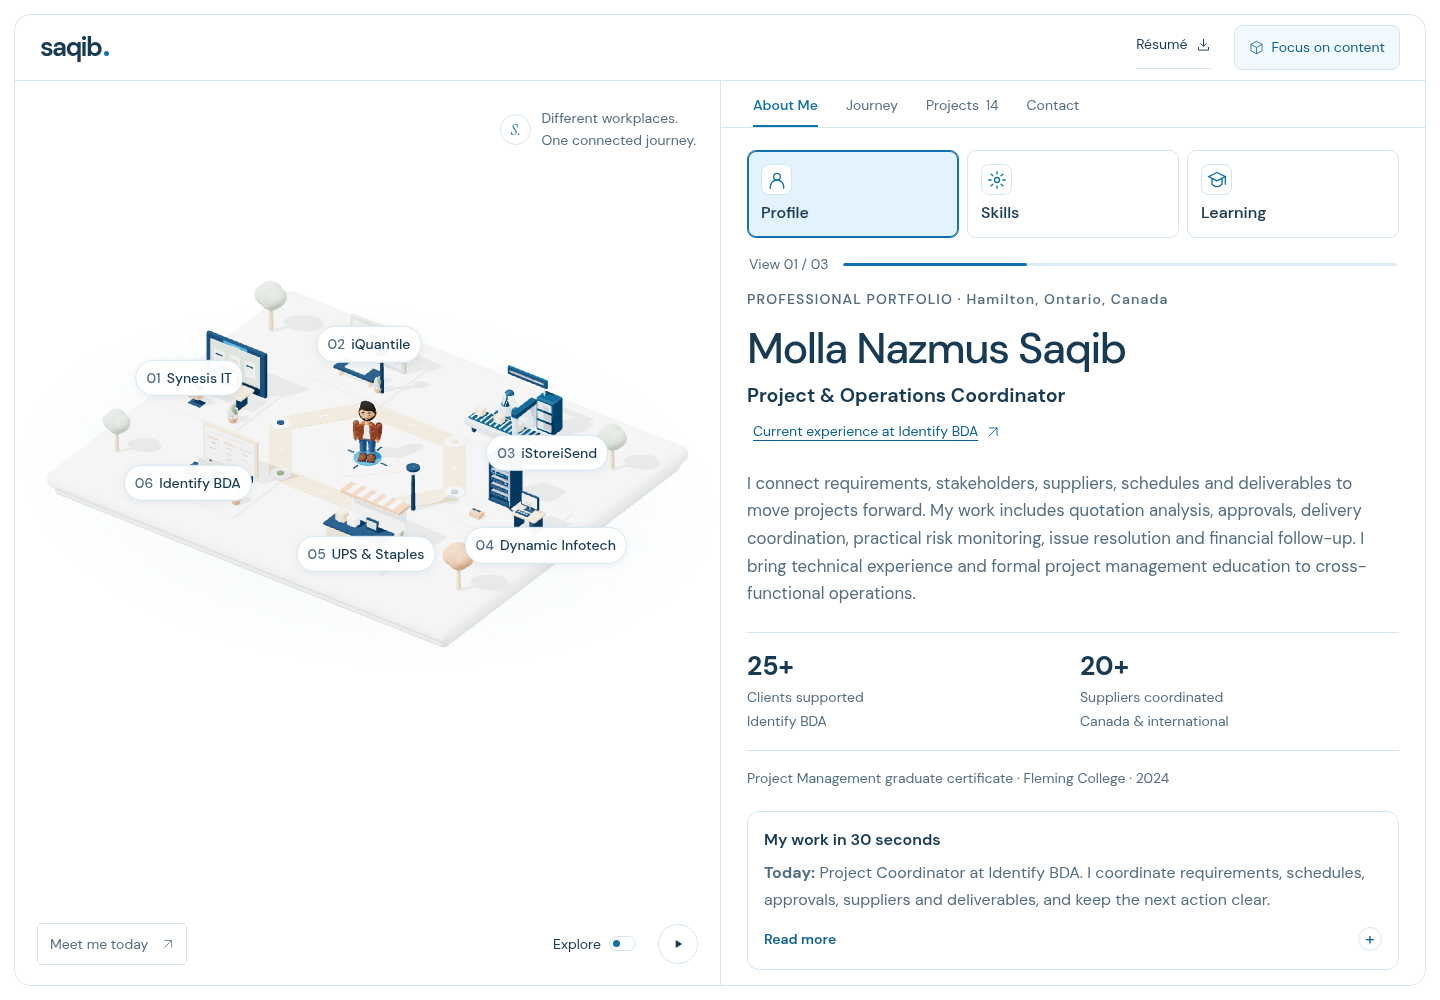
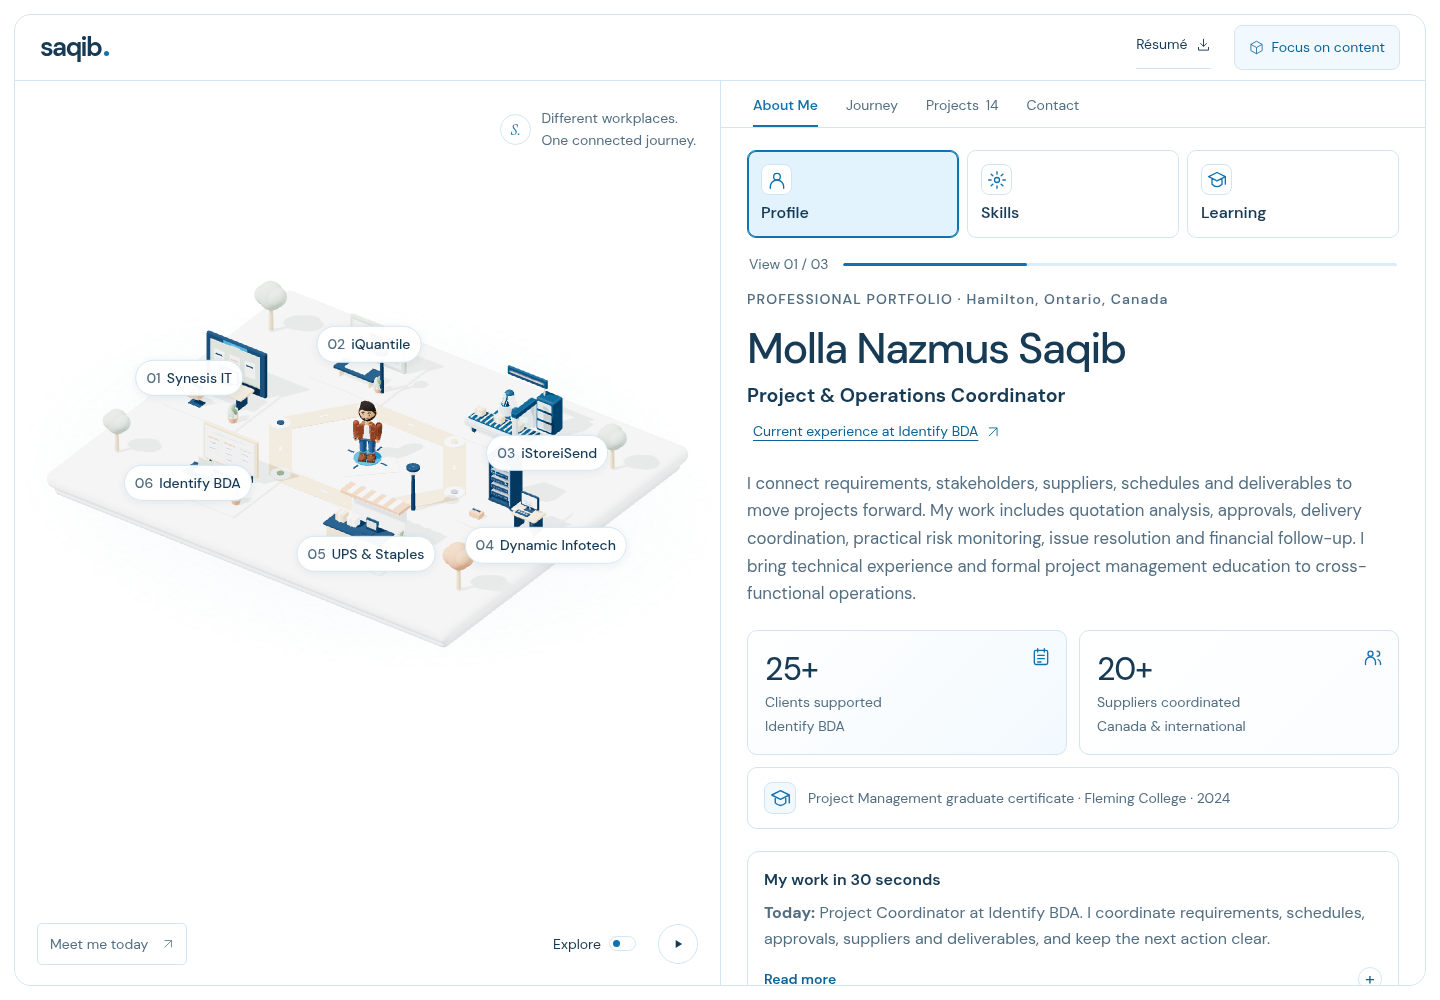
Restore rounded experience and credential cards

Changed region(s): [[0.5, 0.651, 0.9375, 0.992]]

diff --git a/src/recruiter-view.css b/src/recruiter-view.css
@@ -2,10 +2,13 @@
 .professional-position { color:var(--ink,#173A55); font-size:1.22rem; line-height:1.35; font-weight:650; margin:0; }
 .professional-summary { font-size:1.05rem; line-height:1.65; margin:16px 0 20px; color:#526E82; }
 .professional-inline-actions button { border:0; background:transparent; color:#0D6296; text-align:left; font-size:.9rem; line-height:1.45; padding:10px 2px; cursor:pointer; text-decoration:underline; text-underline-offset:4px; }
-.professional-evidence { display:grid; grid-template-columns:repeat(2,minmax(0,1fr)); list-style:none; margin:24px 0; padding:18px 0; border-block:1px solid #D2E6F2; gap:14px; }
-.professional-evidence li { display:flex; flex-direction:column; gap:5px; }
-.professional-evidence strong { font-size:1.65rem; color:#173A55; line-height:1.2; }
-.professional-evidence span { color:#526E82; font-size:.875rem; line-height:1.4; }
+.professional-evidence { display:grid; grid-template-columns:repeat(2,minmax(0,1fr)); list-style:none; margin:22px 0 12px; padding:0; gap:12px; }
+.professional-evidence li { position:relative; min-width:0; display:flex; flex-direction:column; gap:4px; padding:19px 17px 17px; border:1px solid #D2E6F2; border-radius:10px; background:linear-gradient(135deg,#FFFFFF,#F2F9FE); }
+.professional-evidence li:nth-child(2) { background:linear-gradient(135deg,#FFFFFF,#FAFDFF); }
+.professional-evidence strong { padding-right:24px; font-size:2rem; font-weight:450; letter-spacing:-1px; color:#173A55; line-height:1.2; }
+.professional-evidence span { color:#526E82; font-size:.875rem; line-height:1.5; }
+.professional-evidence .professional-evidence-icon { position:absolute; top:16px; right:15px; color:#1072AE; }
+.professional-evidence-icon>svg { display:block; width:20px; height:20px; }
 .professional-quick-view,.about-personal { border:1px solid #D2E6F2; border-radius:12px; margin-top:18px; background:#fff; }
 .professional-quick-view>summary,.about-personal>summary { cursor:pointer; font-size:1rem; padding:16px; color:#173A55; list-style:none; }
 .professional-quick-view>summary::-webkit-details-marker,.about-personal>summary::-webkit-details-marker { display:none; }
@@ -46,8 +49,10 @@
   .professional-overview h1 { font-size:2rem; letter-spacing:-1px; }
   .professional-position { font-size:1.13rem; }
   .professional-summary { font-size:1rem; margin:12px 0 16px; }
-  .professional-evidence { gap:10px; margin:18px 0; padding:14px 0; }
-  .professional-evidence strong { font-size:1.45rem; }
+  .professional-evidence { gap:10px; margin-top:18px; }
+  .professional-evidence li { padding:16px 13px 14px; }
+  .professional-evidence strong { font-size:1.875rem; }
+  .professional-evidence .professional-evidence-icon { top:15px; right:11px; }
   .professional-evidence span { font-size:.875rem; }
 }
 
@@ -65,7 +70,10 @@
 .static-overview a { text-decoration:underline; text-underline-offset:3px; }
 
 .professional-evidence small { color:#526E82; font-size:.875rem; line-height:1.4; }
-.professional-credential { margin:-8px 0 22px; color:#526E82; font-size:.875rem; line-height:1.6; }
+.professional-credential { display:flex; align-items:center; gap:12px; margin:0 0 22px; padding:14px 16px; border:1px solid #D2E6F2; border-radius:10px; background:#FFFFFF; color:#526E82; font-size:.875rem; line-height:1.6; }
+.professional-credential-icon { display:grid; place-items:center; flex-shrink:0; width:32px; height:32px; border:1px solid #D2E6F2; border-radius:8px; background:#F2F9FE; color:#1072AE; }
+.professional-credential-icon>svg { width:21px; height:21px; }
+.professional-credential>span:last-child { min-width:0; }
 .shell-header .view-toggle { padding:10px 14px; border:1px solid #D2E6F2; border-radius:8px; background:#F2F9FE; color:#0D6296; }
 .project-group+ .project-group { margin-top:22px; }
 .project-group>h2 { font-size:1.25rem; line-height:1.4; margin:0 0 6px; color:#173A55; }

diff --git a/src/recruiter-view.js b/src/recruiter-view.js
@@ -1,6 +1,12 @@
 const esc = value => String(value ?? '').replace(/[&<>"']/g, char => ({ '&': '&amp;', '<': '&lt;', '>': '&gt;', '"': '&quot;', "'": '&#39;' }[char]));
 
 const arrow = '<svg viewBox="0 0 24 24" fill="none" aria-hidden="true"><path d="M5 19 19 5M5 5h14v14" stroke="currentColor" stroke-width="1.5"/></svg>';
+const evidenceIcons = {
+  clients: '<rect x="4" y="4" width="16" height="17" rx="2"/><path d="M8 2v4m8-4v4M8 10h8m-8 4h8m-8 4h4"/>',
+  suppliers: '<circle cx="9" cy="8" r="3"/><path d="M3 21v-3a6 6 0 0 1 12 0v3m2-16a3 3 0 0 1 0 6m1 4a5 5 0 0 1 3 4v2"/>',
+  learning: '<path d="m2 8 10-5 10 5-10 5-10-5Zm4 2v7c4 4 8 4 12 0v-7m4-2v9"/>',
+};
+const evidenceIcon = name => `<svg viewBox="0 0 24 24" fill="none" stroke="currentColor" stroke-width="1.6" stroke-linecap="round" stroke-linejoin="round" aria-hidden="true">${evidenceIcons[name]}</svg>`;
 
 export function renderOpportunityStatement(summary) {
   const roles = summary.targets.map(esc);
@@ -15,8 +21,8 @@ export function renderProfessionalOverview({ aboutMe, professionalSummary }) {
     <p class="professional-position">${esc(professionalSummary.headline)}</p>
     <button class="professional-current" type="button" data-current-experience>Current experience at Identify BDA ${arrow}</button>
     <p class="professional-summary">${esc(professionalSummary.body)}</p>
-    <ul class="professional-evidence" aria-label="Current Identify BDA experience"><li><strong>25+</strong><span>Clients supported</span><small>Identify BDA</small></li><li><strong>20+</strong><span>Suppliers coordinated</span><small>Canada &amp; international</small></li></ul>
-    <p class="professional-credential">Project Management graduate certificate · Fleming College · 2024</p>
+    <ul class="professional-evidence" aria-label="Current Identify BDA experience"><li><span class="professional-evidence-icon">${evidenceIcon('clients')}</span><strong>25+</strong><span>Clients supported</span><small>Identify BDA</small></li><li><span class="professional-evidence-icon">${evidenceIcon('suppliers')}</span><strong>20+</strong><span>Suppliers coordinated</span><small>Canada &amp; international</small></li></ul>
+    <p class="professional-credential"><span class="professional-credential-icon">${evidenceIcon('learning')}</span><span>Project Management graduate certificate · Fleming College · 2024</span></p>
     <details class="professional-quick-view"><summary><span class="profile-preview-title">My work in 30 seconds</span><span class="profile-preview-excerpt"><strong>Today:</strong> Project Coordinator at Identify BDA. I coordinate requirements, schedules, approvals, suppliers and deliverables, and keep the next action clear.</span><span class="profile-preview-toggle"><span class="profile-preview-expand">Read more</span><span class="profile-preview-collapse">Show less</span><span class="profile-preview-icon" aria-hidden="true">+</span></span></summary><div>
       <ul><li><strong>Complex delivery:</strong> coordinated an approximately $55,000 conference project with eight vendors over three weeks.</li><li><strong>Continuity:</strong> supported 25+ clients, including approximately 15 repeat clients.</li><li><strong>Issue resolution:</strong> helped resolve an incorrect item without delaying the conference.</li></ul>
       <p><strong>Risk awareness:</strong> I note relevant concerns in Trello card descriptions and discuss dependencies or practical options with the CEO or suppliers when needed.</p>
